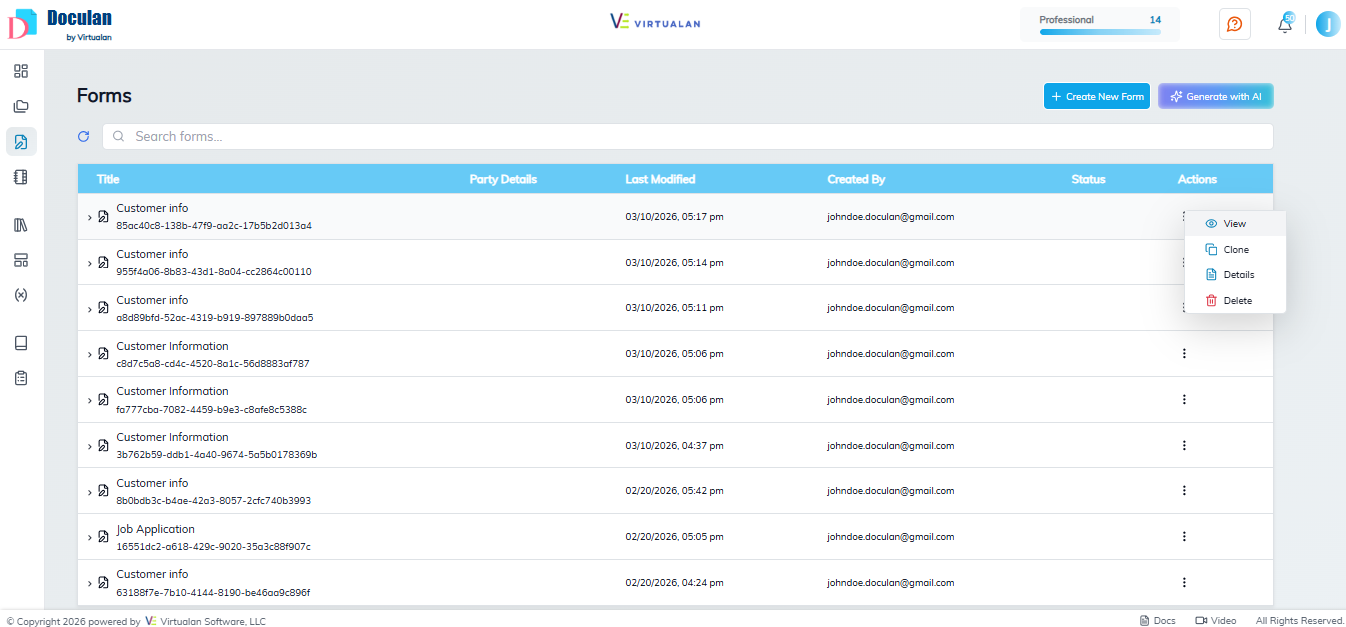
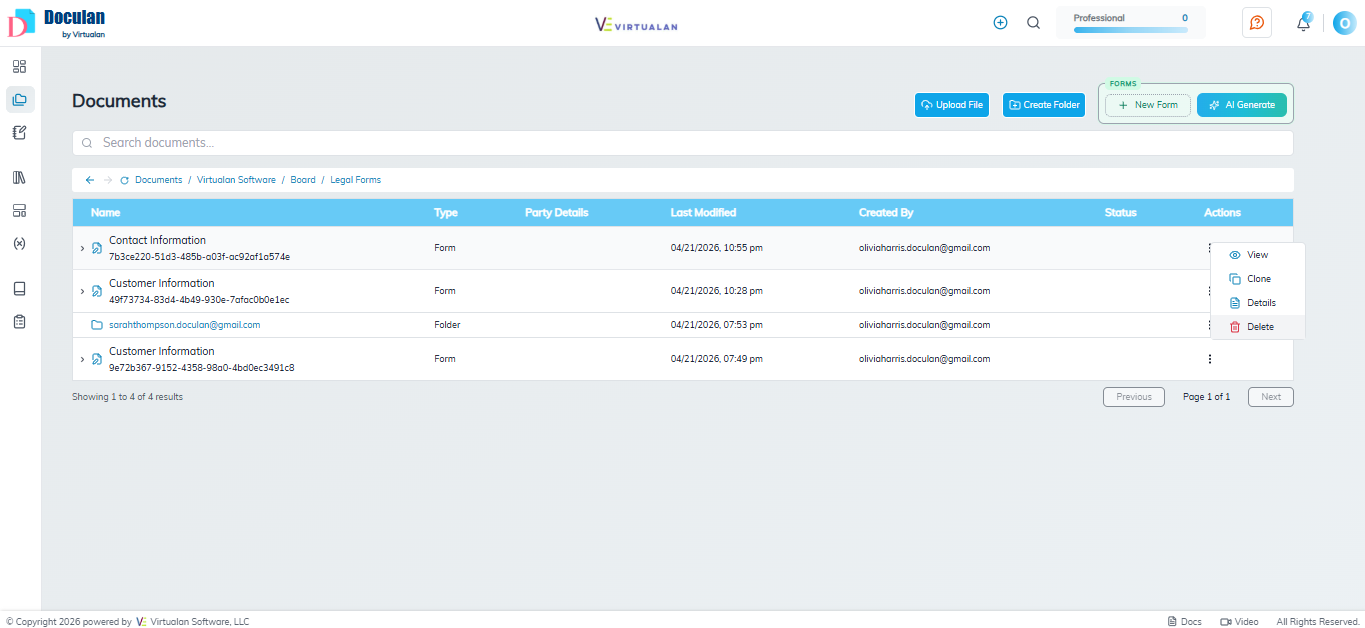
Update Forms Content

diff --git a/docs/Forms/Form_Cancel.md b/docs/Forms/Form_Cancel.md
@@ -9,13 +9,13 @@ This process ensures you can safely stop a form workflow with full transparency 
 ## **Step 1:  Navigate to Cancel the Form**
 
 - The form status must be **sent** to proceed with cancellation.
-- Navigate to the **Doculan Dashboard** and click **Forms.**
+- Navigate to the **Documents** and select the **appropriate folder.**
 - Locate the **form** and click the **⋮ (three-dot) icon** under the Actions column.
 - Click **cancel** to stop the form workflow.
 
 **Screenshot 1:**
 
-<img src="screenshots\Forms\Form-Resend.png" alt="Step 1 — Cancel the Form" style="border:2px solid black; border-radius:4px; width:100%; max-width:800px;">
+<img src="screenshots\Forms\Form-Cancel.png" alt="Step 1 — Cancel the Form" style="border:2px solid black; border-radius:4px; width:100%; max-width:800px;">
 
 
 ---
@@ -29,12 +29,12 @@ A confirmation pop-up will appear with the cancellation details.
 - Click **Confirm** to proceed with the cancellation.
 
 
-<img src="screenshots\Forms\Form-Cancel2.png" alt="Step 2 — Cancel the Form" style="border:2px solid black; border-radius:4px; width:100%; max-width:800px;">
+<img src="screenshots\Forms\Form-Cancel1.png" alt="Step 2 — Cancel the Form" style="border:2px solid black; border-radius:4px; width:100%; max-width:800px;">
 
 
 > Check the **status** after the form is **cancelled.** 
 
-<img src="screenshots\Forms\Form-Cancel3.png" alt="Step 3 — Cancel the Form" style="border:2px solid black; border-radius:4px; width:100%; max-width:800px;">
+<img src="screenshots\Forms\Form-Cancel2.png" alt="Step 3 — Cancel the Form" style="border:2px solid black; border-radius:4px; width:100%; max-width:800px;">
 
 >The above **Screenshots** represents that How to **cancel the Form.**
 
@@ -43,11 +43,11 @@ A confirmation pop-up will appear with the cancellation details.
 <!-- **Screenshot4:** -->
 # **Step 3: Audit Trail**
 
-- Navigate to the **Doculan Dashboard and click Forms.**
+- Navigate to the **Documents and select the appropriate folder**.
 - Locate the required **form** and click the **⋮ (three-dot) icon** under the **Actions column.**
 - From the Actions menu, you can perform the following operations:
 - **Audit** – View the detailed activity log and timeline from the audit trail.
 
-<img src="screenshots\Forms\Form-Cancel4.png" alt="Step 4 — Cancel the Form" style="border:2px solid black; border-radius:4px; width:100%; max-width:800px;">
+<img src="screenshots\Forms\Form-Cancel3.png" alt="Step 4 — Cancel the Form" style="border:2px solid black; border-radius:4px; width:100%; max-width:800px;">
 
 >The above **Screenshot** represent that **Audit Workflow of Cancel Form.**

diff --git a/docs/Forms/Form_Create.md b/docs/Forms/Form_Create.md
@@ -6,7 +6,7 @@ Follow the step-by-step instructions to efficiently create, send, manage, and an
 
 ##   **Step 1: Navigate to Create the Form**
 
-- Navigate to the **Doculan Dashboard**. Click **Forms** from the main menu. 
+- Navigate to the **Doculan Dashboard**. Click **Documents** from the main menu. 
 - Click **Create New Form** to manually design a form, or select **Generate with AI** to automatically create a form using **AI** assistance.
 - For manual form creation, click the **Create New Form** button to proceed.
 - We have to Upload a **logo** (optional). Enter **Form Title** and **Form Description**.
@@ -34,6 +34,14 @@ Follow the step-by-step instructions to efficiently create, send, manage, and an
 **Screenshot 2:**
 
 <img src="screenshots\Forms\CreateForm2.png" alt="Step 2 — Create the Form" style="border:2px solid black; border-radius:4px; width:100%; max-width:800px;">
+
+**Screenshot 3:**
+
+<img src="screenshots\Forms\CreateForm3.png" alt="Step 2 — Create the Form" style="border:2px solid black; border-radius:4px; width:100%; max-width:800px;">
+
+**Screenshot 4:**
+
+<img src="screenshots\Forms\CreateForm4.png" alt="Step 2 — Create the Form" style="border:2px solid black; border-radius:4px; width:100%; max-width:800px;">
 
 > The above **Screenshots** represent that how to create **form**
 
@@ -82,7 +90,7 @@ Follow the step-by-step instructions to efficiently create, send, manage, and an
 To review and manage form submissions in Doculan, follow the steps below:
 
 - Form status changes to **Completed**
-- Navigate to the **Doculan Dashboard** and click **Forms.**
+- Navigate to the **Documents** and select the **appropriate folder**.
 - Locate the required form and click the **⋮ (three-dot) icon** under the **Actions** column. 
 - From the Actions menu, you can perform the following operations:
   - **Audit** – View detailed submission logs and activity history.  

diff --git a/docs/Forms/Form-Delete.md b/docs/Forms/Form-Delete.md
@@ -1,7 +1,7 @@
 # How to Delete Form?
 
 This guide explains how to **delete a form in Doculan**. A form can only be deleted if it has **no linked recipients or submissions**.<br>
-To delete a form, navigate to the **Forms** section, open the Actions menu, and select **Delete** to permanently remove it. A confirmation pop-up will appear, allowing you to review and verify the action before final deletion.<br>
+To delete a form, navigate to the **Documents** section, select the **appropriate folder**, open the **form** Actions menu, and select **Delete** to permanently remove it. A confirmation pop-up will appear, allowing you to review and verify the action before final deletion.<br>
 This process ensures that only unused or draft forms are safely removed from the system, maintaining data integrity and compliance.
 
 ---
@@ -9,7 +9,7 @@ This process ensures that only unused or draft forms are safely removed from the
 ##  **Step:1 Navigate to Delete the Form**
 
 - Forms can be deleted **only if no recipients are linked**
-- Navigate to the **Doculan Dashboard** and click **Forms.**
+- Navigate to the **Documents and select the appropriate folder**.
 - Locate the **form** and click the **⋮ (three-dot) icon** under the Actions column.
 - Click **Delete.**
 
@@ -28,6 +28,6 @@ A confirmation popup appears with details.
 
 **Screenshot 2:**
 
-<img src="screenshots\Forms\Form-Delete2.png" alt="Step 2 — Delete the Form" style="border:2px solid black; border-radius:4px; width:100%; max-width:800px;">
+<img src="screenshots\Forms\Form-Delete1.png" alt="Step 2 — Delete the Form" style="border:2px solid black; border-radius:4px; width:100%; max-width:800px;">
 
 > The above **Screenshots** represents that how to **Delete Form.**

diff --git a/docs/Forms/Form_Document_Storage.md b/docs/Forms/Form_Document_Storage.md
@@ -9,7 +9,7 @@ This guide explains **how to access single submissions, overall form responses, 
 
 - All forms and files are stored in the **Doculan Storage**
 - You can **view, download, and print** submissions(Forms) & attachments(pdf, word, etc...)
-- Navigate to the **Doculan Dashboard** and click **Forms.**
+- Navigate to the **Documents** and select the **appropriate folder.**
 - Locate the required form and click the **⋮ (three-dot) icon** under the **Actions column.**
 - We have to click **Details**, then
 - We can see the **Submitted Form with their Attachment.**  
@@ -27,7 +27,7 @@ This guide explains **how to access single submissions, overall form responses, 
 
 ## **Step 2: Navigate to view  Overall Submitted Form with Attachments**
 
-- Navigate to the **Doculan Dashboard** and **click Forms.**
+- Navigate to the **Documents** and select the **appropriate folder.**
 - Locate the required **Primary form** and click the **⋮ (three-dot) icon** under the Actions column.
 - We have to click **Details**, then
 - We can see the **Submitted Forms with their Attachments.**  
@@ -44,7 +44,7 @@ This guide explains **how to access single submissions, overall form responses, 
 
 ## **Step 3: Navigate to view Specific Recipient in Overall Submitted Forms with Attachments**
 
-- Navigate to the **Doculan Dashboard and click Forms.**
+- Navigate to the **Documents and select the appropriate folder**.
 - Locate the **Specific Recipient form** and click the **⋮ (three-dot) icon** under the **Actions column.**
 - We have to click **Details**, then
 - We can see the **Specific Recipient's Submitted Form with their Attachment** 

diff --git a/docs/Forms/Form_Save.md b/docs/Forms/Form_Save.md
@@ -6,24 +6,24 @@ The **Save Form** option allows you to store a form without sending it, enabling
 
 ## Step-by-Step Instructions
 
-1. Navigate to the Forms section.
+1. Navigate to the **Documents** section.
 
-<img src="screenshots\Forms\Save_form.png" alt="Step 1 — view all Docs" style="border:2px solid black; border-radius:4px; width:100%; max-width:800px;">
+<img src="screenshots\Forms\CreateForm1.png" alt="Step 1 — view all Docs" style="border:2px solid black; border-radius:4px; width:100%; max-width:800px;">
 
-2. Click Create Form and choose your preferred method.
+2. Click **Create Form** and choose your preferred method.
 3. Fill in the required form details and fields.
 
 <img src="screenshots\Forms\Save_form1.png" alt="Step 1 — view all Docs" style="border:2px solid black; border-radius:4px; width:100%; max-width:800px;">
 
-4. Click the Send Form dropdown option.
+4. Click the Send Form **dropdown** option.
 
 <img src="screenshots\Forms\Save_form2.png" alt="Step 1 — view all Docs" style="border:2px solid black; border-radius:4px; width:100%; max-width:800px;">
 
-5. Select Save Form instead of sending.
+5. Select **Save Form** instead of sending.
 
 <img src="screenshots\Forms\Save_form3.png" alt="Step 1 — view all Docs" style="border:2px solid black; border-radius:4px; width:100%; max-width:800px;">
 
-6. Click Save Form to store the form for future use.
+6. Click **Save Form** to store it in the selected folder.
 
 <img src="screenshots\Forms\Save_form4.png" alt="Step 1 — view all Docs" style="border:2px solid black; border-radius:4px; width:100%; max-width:800px;">
 

diff --git a/docs/Forms/Form_Resend.md b/docs/Forms/Form_Resend.md
@@ -6,7 +6,7 @@ This guide helps to **resending a form** allows you to issue a fresh access link
 
 ##  **Step 1: Navigate to Resend the Form**
 
-- Navigate to the **Doculan Dashboard** and click **Forms.**
+- Navigate to the **Documents** and select the **appropriate folder.**
 - Locate the **form** and click the **⋮ (three-dot) icon** under the Actions column.
 - Click **Resend**, then 
 - Recipient receives a new access email  
@@ -16,17 +16,21 @@ This guide helps to **resending a form** allows you to issue a fresh access link
 
 <img src="screenshots\Forms\Form-Resend.png" alt="Step 1 — view all Docs" style="border:2px solid black; border-radius:4px; width:100%; max-width:800px;">
 
+**Screenshot 2:**
+
+<img src="screenshots\Forms\Form-Resend1.png" alt="Step 1 — view all Docs" style="border:2px solid black; border-radius:4px; width:100%; max-width:800px;">
+
 > The above **Screenshot** represent that how to **Resend Form.**
 
 
 # **Step 2: Audit Trail**
 
-- Navigate to the **Doculan Dashboard and click Forms.**
+- Navigate to the **Documents and select the appropriate folder**.
 - Locate the required **form** and click the **⋮ (three-dot) icon** under the **Actions column.**
 - From the Actions menu, you can perform the below operations:
 - **Audit** – We can check the timesheet from the audit trail.
 
-**Screenshot 2:**
+**Screenshot 3:**
 
 <img src="screenshots\Forms\Form-Resend2.png" alt="Step 2 — view all Docs" style="border:2px solid black; border-radius:4px; width:100%; max-width:800px;">
 

diff --git a/docs/Forms/Form_Clone.md b/docs/Forms/Form_Clone.md
@@ -7,7 +7,7 @@ This feature streamlines recurring form workflows, saving time while ensuring co
 
 ##  **Step1: Navigate to Clone the Form**
 
-- Navigate to the **Doculan Dashboard** and click **Forms.**
+- Navigate to the **Documents** and select the **appropriate folder.**
 - Locate the **required form** and click the **⋮ (three-dot) icon** under the Actions column.
 - Click **Clone** and form will be cloned  
 - Review the cloned form and click **Send Form**.
@@ -26,7 +26,7 @@ This feature streamlines recurring form workflows, saving time while ensuring co
 
 # **Step 2: Audit Trail**
 
-- Navigate to the **Doculan Dashboard and click Forms.**
+- Navigate to the **Documents and select the appropriate folder**.
 - Locate the required **form** and click the **⋮ (three-dot) icon** under the **Actions column.**
 - From the Actions menu, you can perform the following operations:
 - **Audit** – View detailed submission logs and the complete activity history.
